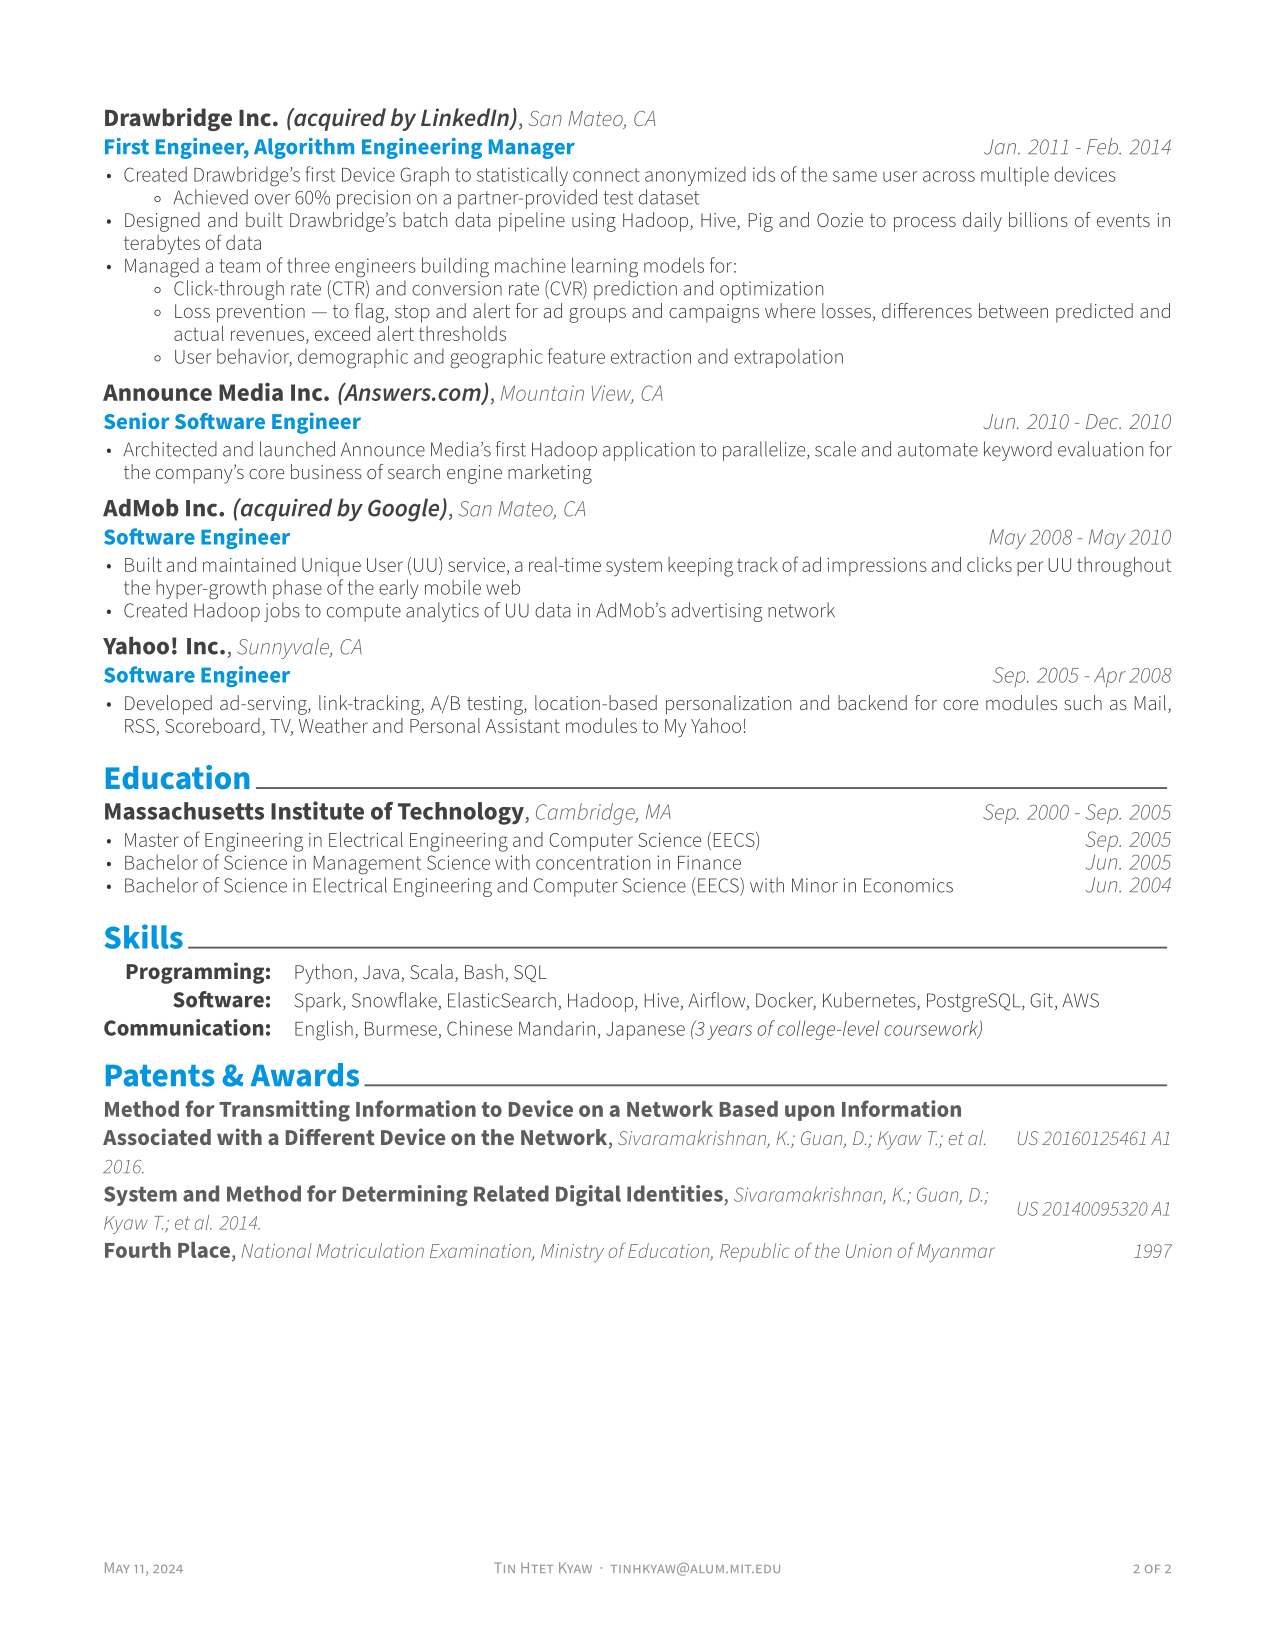
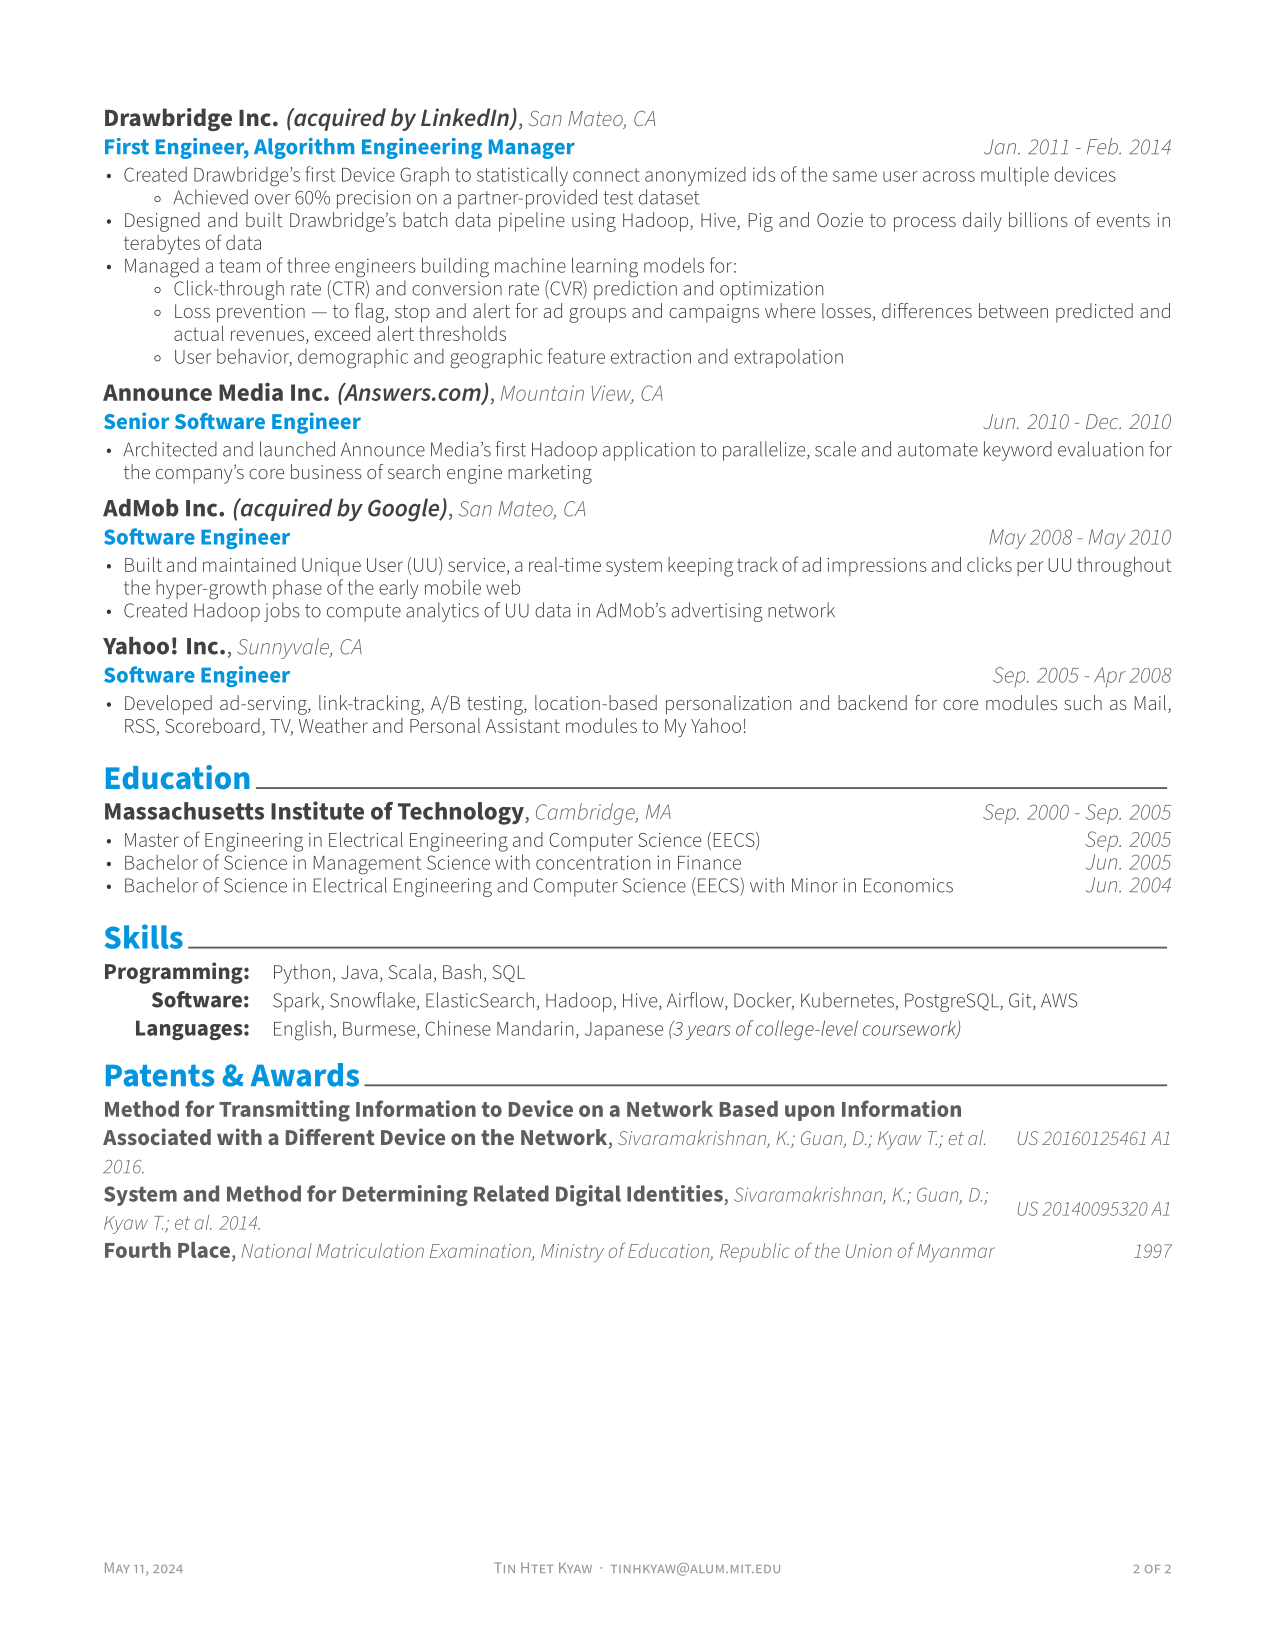
updates

Changed region(s): [[0.0918, 0.5873, 0.8565, 0.6491]]

diff --git a/resume/skills.tex b/resume/skills.tex
@@ -21,7 +21,7 @@
 
   %---------------------------------------------------------
   \cvskill
-  {Communication:} % Type
+  {Languages:} % Type
   {English, Burmese, Chinese Mandarin, Japanese \bodyfontlight\emph{(3 years of college-level coursework)}} % Skills
 
   %---------------------------------------------------------
